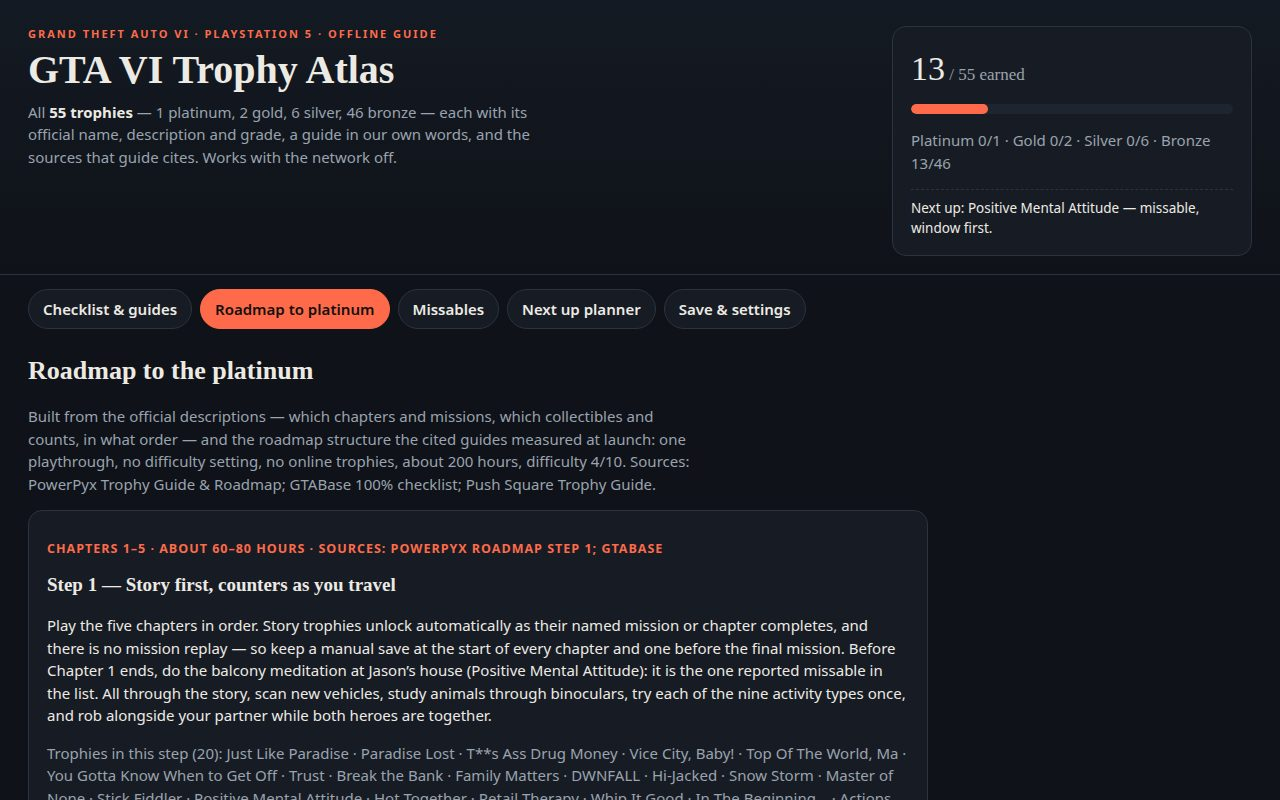
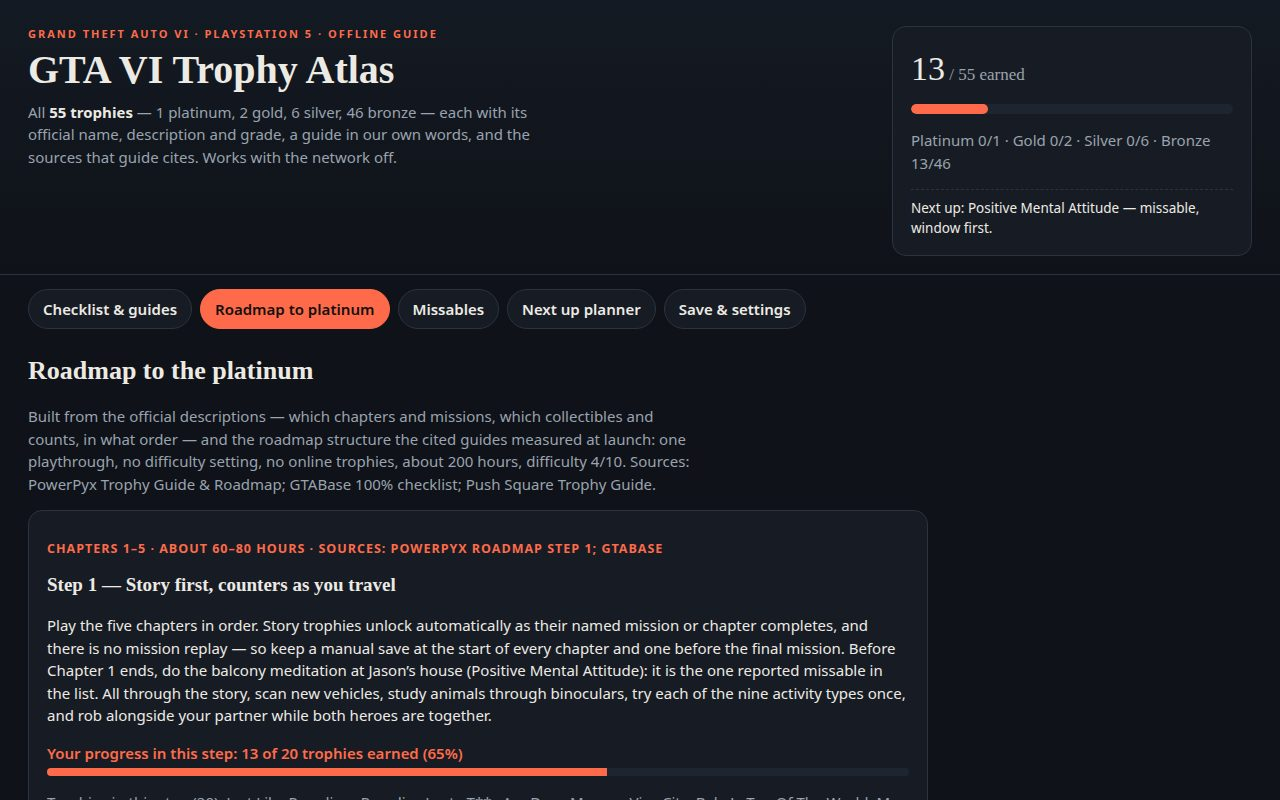
v2: roadmap step progress, planner stage tags, progress summary, deeper guides
- Roadmap steps now show the player's own progress per step (earned count + bar)
- Planner queue tags each trophy with its roadmap step
- Save & settings gains a copyable plain-text progress summary
- Six counter/strand guides deepened with technique and bookkeeping advice
- main.ts run log now reports the official grade split

Changed region(s): [[0.0312, 0.9375, 0.7188, 1.0]]

diff --git a/app/js/data.js b/app/js/data.js
@@ -88,6 +88,35 @@ export function stageTrophies(trophies, stage) {
   return trophies.filter((trophy) => trophy.stage === stage);
 }
 
+// Per-step progress for the roadmap view: how much of each step the saved
+// tracker already covers, so the roadmap reads as a plan with a position on
+// it rather than a static essay.
+export function stepProgress(trophies, state, isEarned, stage) {
+  const inStep = stageTrophies(trophies, stage);
+  const earned = inStep.filter((trophy) => isEarned(state, trophy)).length;
+  return { earned, total: inStep.length, pct: inStep.length ? Math.round((earned / inStep.length) * 100) : 0 };
+}
+
+// A plain-text progress summary the player can paste anywhere (a forum post,
+// a message to a co-op partner): counts by grade, the counters under way and
+// the next three trophies the planner would send them to.
+export function shareSummary(doc, state, isEarned, counterOf, plannerOrderFn) {
+  const trophies = doc.trophies;
+  const earned = trophies.filter((t) => isEarned(state, t));
+  const byGrade = (grade) => `${earned.filter((t) => t.grade === grade).length}/${trophies.filter((t) => t.grade === grade).length} ${grade}`;
+  const lines = [
+    `GTA VI Trophy Atlas — my platinum run: ${earned.length}/55 trophies`,
+    ['platinum', 'gold', 'silver', 'bronze'].map(byGrade).join(' · '),
+  ];
+  const counters = trophies.filter((t) => t.target && counterOf(state, t) > 0 && !isEarned(state, t));
+  if (counters.length) {
+    lines.push('Counters under way: ' + counters.map((t) => `${t.name} ${counterOf(state, t)}/${t.target}`).join('; '));
+  }
+  const next = plannerOrderFn(trophies, state, isEarned, counterOf).slice(0, 3);
+  if (next.length) lines.push('Next up: ' + next.map((t) => t.name).join(' → '));
+  return lines.join('\n');
+}
+
 export function plannerReason(trophy, state, counterOf) {
   if (trophy.missable) return 'Missable — its Chapter 1 window closes first. Do this before anything else.';
   if (trophy.kind === 'story') return 'Story — unlocks automatically at its mission or chapter; keep a save at the chapter start.';

diff --git a/app/js/views.js b/app/js/views.js
@@ -1,7 +1,7 @@
 // GTA VI Trophy Atlas — rendering: scorecard, checklist rows, the guide pane,
 // roadmap, missables, planner and the sources index. All text comes from
 // data/trophies.json or js/data.js; this file only lays it out.
-import { GRADE_ORDER, KIND_LABELS, ROADMAP, displayDescription, displayName, isMasked, plannerReason, stageTrophies } from './data.js';
+import { GRADE_ORDER, KIND_LABELS, ROADMAP, displayDescription, displayName, isMasked, plannerReason, stageTrophies, stepProgress } from './data.js';
 import { counterOf, isEarned } from './store.js';
 
 function el(tag, className, text) {
@@ -152,12 +152,20 @@ function renderCounter(trophy, state, handlers) {
   return wrap;
 }
 
-export function renderRoadmap(doc, els) {
+export function renderRoadmap(doc, state, els) {
   const host = els.roadmapSteps;
   host.replaceChildren();
   for (const step of ROADMAP) {
     const card = el('article', 'step');
     card.append(el('p', 'when', step.when), el('h3', '', step.title), el('p', '', step.body));
+    const progress = stepProgress(doc.trophies, state, isEarned, step.stage);
+    if (progress.total) {
+      const bar = el('div', 'counter-bar');
+      const fill = el('div');
+      fill.style.width = `${progress.pct}%`;
+      bar.append(fill);
+      card.append(el('p', 'step-progress', `Your progress in this step: ${progress.earned} of ${progress.total} trophies earned (${progress.pct}%)`), bar);
+    }
     const names = stageTrophies(doc.trophies, step.stage).map((t) => t.name);
     if (names.length) card.append(el('p', 'muted', `Trophies in this step (${names.length}): ${names.join(' · ')}`));
     host.append(card);
@@ -201,6 +209,7 @@ export function renderPlanner(doc, state, els) {
     item.append(
       el('strong', '', `${index + 1}. ${trophy.name} `),
       badge(trophy.grade, 'grade'),
+      badge(`Step ${trophy.stage ?? '—'}`),
       document.createTextNode(` — ${plannerReason(trophy, state, counterOf)}`),
     );
     host.append(item);

diff --git a/app/js/main.js b/app/js/main.js
@@ -1,7 +1,7 @@
 // GTA VI Trophy Atlas — boot, tabs, filters and wiring.
 // Deep links work too: ?view=roadmap|missables|planner|save, ?kind=missable,
 // ?select=<trophy name>, ?spoiler=off, ?demo=1 (a 13-of-55 demo progress).
-import { loadTrophyDoc, matchesKind, plannerOrder } from './data.js';
+import { loadTrophyDoc, matchesKind, plannerOrder, shareSummary } from './data.js';
 import { demoState, exportPayload, importPayload, isEarned, loadState, saveState, setCounter, setEarned } from './store.js';
 import { renderChecklist, renderDetail, renderMissables, renderPlanner, renderRoadmap, renderScorecard, renderSourcesIndex } from './views.js';
 
@@ -61,7 +61,7 @@ function refresh() {
     : 'Next up: nothing — all 55 earned. Platinum unlocked.';
   renderChecklist(doc, state, ui, els, selectTrophy, toggleEarned);
   renderDetail(doc, state, els, detailHandlers);
-  renderRoadmap(doc, els);
+  renderRoadmap(doc, state, els);
   renderMissables(doc, els);
   renderPlanner(doc, state, els);
   renderSourcesIndex(doc, els);
@@ -136,6 +136,15 @@ document.getElementById('demo-btn').addEventListener('click', () => {
   saveState(state);
   els.saveStatus.textContent = 'Demo progress loaded: 13 of 55 earned, five counters part-way, spoiler shield off so story names show. Reset restores a blank tracker.';
   refresh();
+});
+document.getElementById('share-btn').addEventListener('click', async () => {
+  const summary = shareSummary(doc, state, isEarned, (s, t) => Number(s.counters[t.name] ?? 0) || 0, plannerOrder);
+  try {
+    await navigator.clipboard.writeText(summary);
+    els.saveStatus.textContent = 'Progress summary copied to the clipboard — paste it anywhere.';
+  } catch {
+    els.saveStatus.textContent = summary;
+  }
 });
 document.getElementById('export-btn').addEventListener('click', () => {
   const blob = new Blob([exportPayload(state)], { type: 'application/json' });

diff --git a/main.ts b/main.ts
@@ -17,10 +17,12 @@ import { buildDossier } from './vendor/makefun-frontend.ts';
 const here = fileURLToPath(new URL('.', import.meta.url));
 const out = process.env.MAKEFUN_OUTPUT_DIR ?? '/output';
 
-// The atlas promises 55 trophies; say so in the run log if the data file ever drifts.
+// The atlas promises 55 trophies; say so in the run log if the data file ever drifts,
+// with the grade split the official list publishes (1 platinum, 2 gold, 6 silver, 46 bronze).
 const trophyDoc = JSON.parse(readFileSync(join(here, 'app', 'data', 'trophies.json'), 'utf8'));
-const trophyCount = Array.isArray(trophyDoc) ? trophyDoc.length : trophyDoc.trophies?.length ?? 0;
-console.log(`GTA VI Trophy Atlas: handing in ${trophyCount} trophies with their guides.`);
+const trophyList = Array.isArray(trophyDoc) ? trophyDoc : trophyDoc.trophies ?? [];
+const gradeSplit = ['platinum', 'gold', 'silver', 'bronze'].map((grade) => `${trophyList.filter((t) => t.grade === grade).length} ${grade}`).join(', ');
+console.log(`GTA VI Trophy Atlas: handing in ${trophyList.length} trophies with their guides (${gradeSplit}).`);
 
 mkdirSync(out, { recursive: true });
 cpSync(join(here, 'app'), join(out, 'app'), { recursive: true });

diff --git a/app/index.html b/app/index.html
@@ -98,6 +98,7 @@
     <p>Progress lives only in this browser (localStorage): earned ticks, counters, notes and settings. Nothing is sent anywhere — this app makes no network request.</p>
     <div class="save-actions">
       <button type="button" id="demo-btn">Load demo progress (13 of 55 earned)</button>
+      <button type="button" id="share-btn">Copy progress summary</button>
       <button type="button" id="export-btn">Export progress (.json)</button>
       <label class="import-btn">Import progress <input id="import-file" type="file" accept="application/json,.json"></label>
       <button type="button" id="reset-btn">Reset all progress</button>

diff --git a/app/style.css b/app/style.css
@@ -121,6 +121,7 @@ main { padding: 18px 28px 30px; }
 }
 .step h3, .miss-card h3 { margin: 0 0 6px; font-size: 19px; }
 .step .when { color: var(--accent); font-weight: 700; font-size: 12.5px; letter-spacing: .08em; text-transform: uppercase; }
+.step-progress { font-weight: 600; color: var(--accent); margin: 10px 0 4px; }
 .rules { max-width: 80ch; }
 .planner-list { max-width: 900px; padding-left: 22px; }
 .planner-list li { margin: 10px 0; background: var(--surface); border: 1px solid var(--border); border-radius: 6px; padding: 10px 12px; }

diff --git a/README.md b/README.md
@@ -14,7 +14,8 @@ An offline guide and tracker for all **55 PlayStation 5 trophies** of Grand Thef
 - **Tracker** — tick trophies off and the progress is saved in the browser (localStorage), with per-trophy counters for the counted trophies (250 stunts, 42 Shooting Range golds, 18 meditation spots, 100 WAiNK locations…), personal notes, and export/import of the whole progress file.
 - **Filters & search** — by kind (story, missable, collectibles, activities, side strands, world & crime, and online — the official list has no online trophies, and the app says so), by grade, by text, and a hide-earned switch.
 - **Spoiler shield** — when on, story trophies you have not earned yet show neither name nor description, in the list or in the guide pane.
-- **Roadmap to the platinum** — four steps built from the official descriptions: story first (with the Chapter 1 warning), the 100% checklist and its partial targets, strands and money clean-up, then the platinum check. About 200 hours, one playthrough, no difficulty or online trophies.
+- **Roadmap to the platinum** — four steps built from the official descriptions: story first (with the Chapter 1 warning), the 100% checklist and its partial targets, strands and money clean-up, then the platinum check. About 200 hours, one playthrough, no difficulty or online trophies. Each step also shows your own progress through it, read from the tracker.
+- **Progress summary** — one click in Save & settings copies a plain-text summary (counts by grade, counters under way, next three trophies) to the clipboard, ready to paste into a forum post or a message.
 - **Missables** — flagged from the official descriptions and cited reporting: exactly one potentially missable trophy, Positive Mental Attitude, whose first meditation spot at Jason's house is reported gone after Chapter 1 — plus the partner trophies to attempt while both protagonists are together, and the per-chapter manual-save habit that protects a no-replay run.
 - **Next up planner** — reads your saved progress and queues what to do next: missable first, then story, then counters already moving, then clean-up.
 
